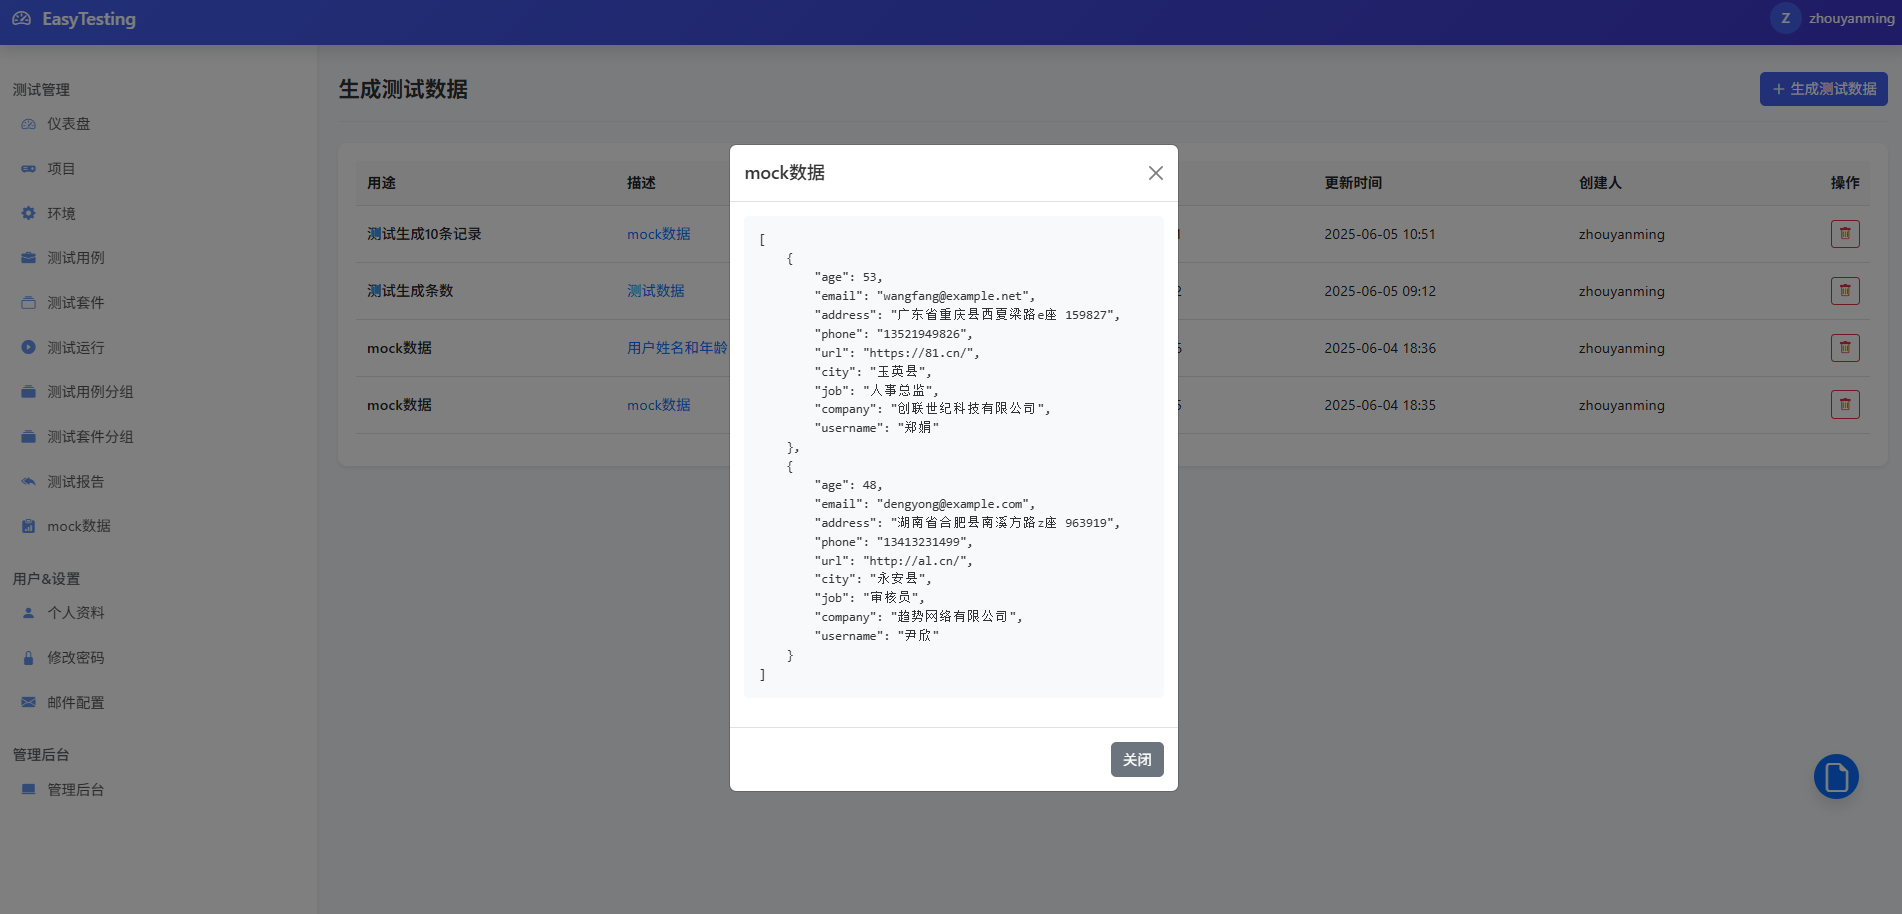
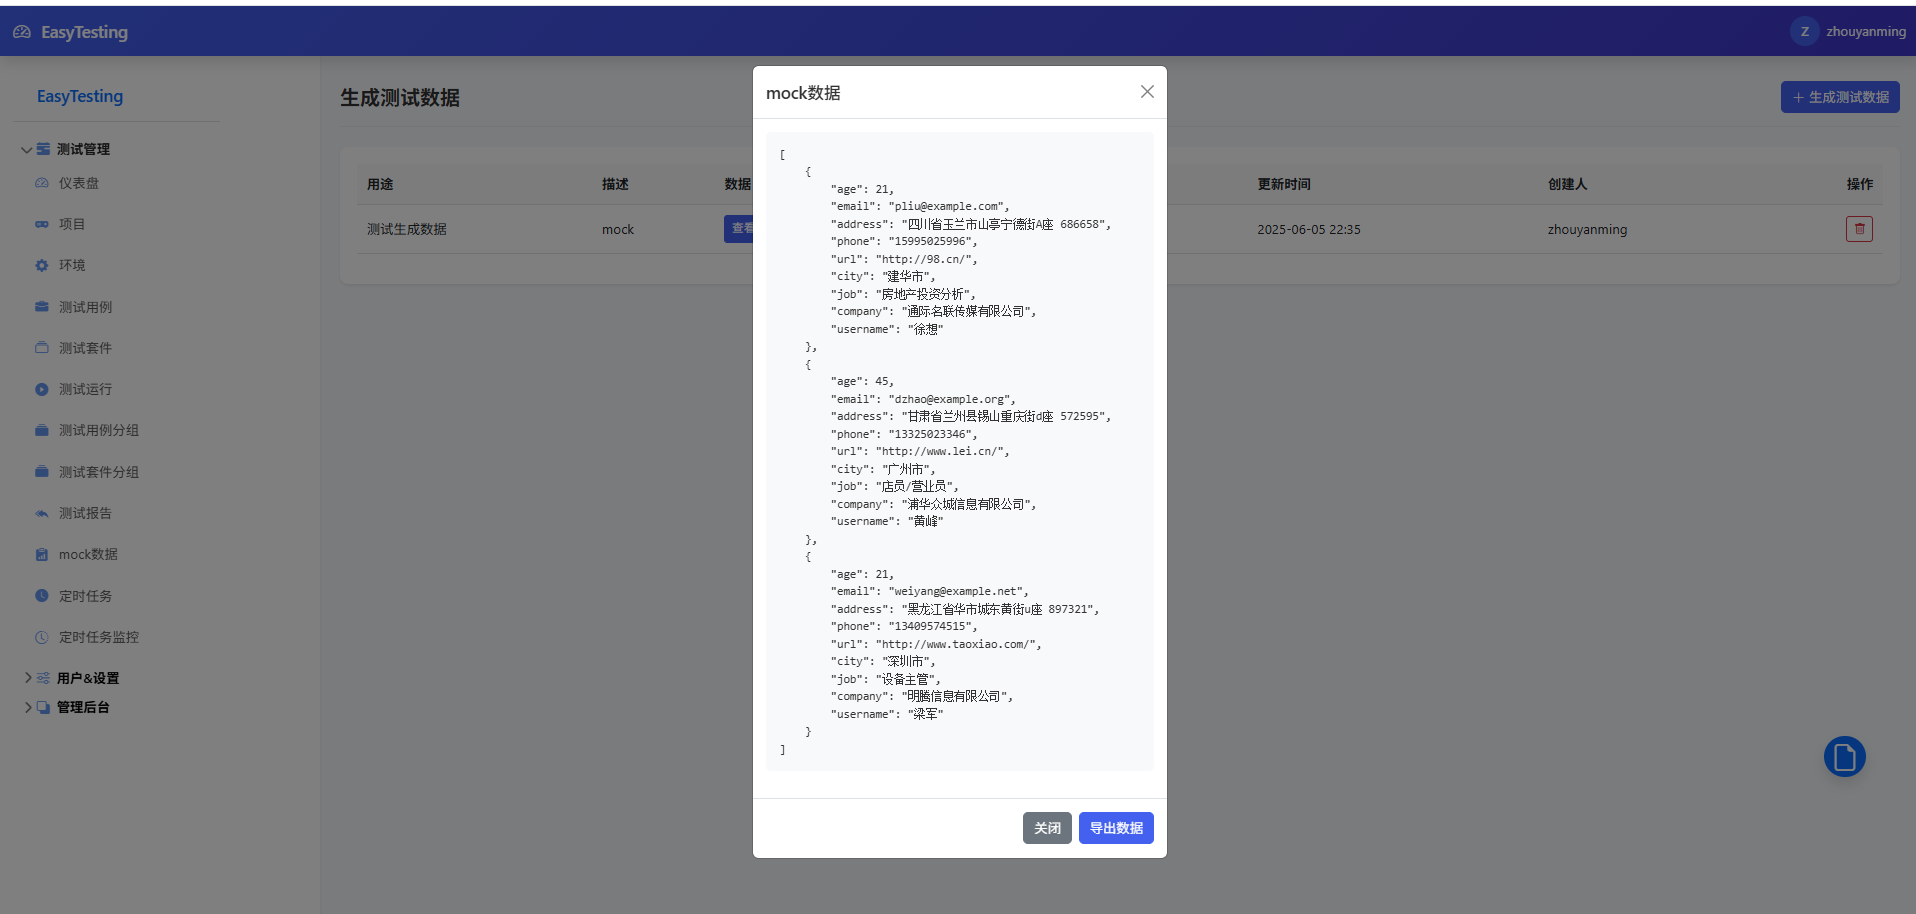
docs(README.md):完善README.md文件

diff --git a/README.md b/README.md
@@ -59,7 +59,12 @@
    ```
    python manage.py runserver
    ```
-
+7. 启动celery和beat
+   ```
+   celery -A EasyTesting worker -l info
+   celery -A EasyTesting beat -l info
+   
+   ```
 ## 使用
 
 1. 点击 http://localhost:8000/ 访问
@@ -154,6 +159,12 @@
 
 ### mock数据
   <img src="static/pic/mock数据.png" />
+
+### 定时任务
+   <img src="static/pic/定时任务.png" />
+
+### 定时任务监控
+   <img src="static/pic/定时任务监控.png" />
 
 ### 觉得项目不错，请作者喝一杯咖啡
 
